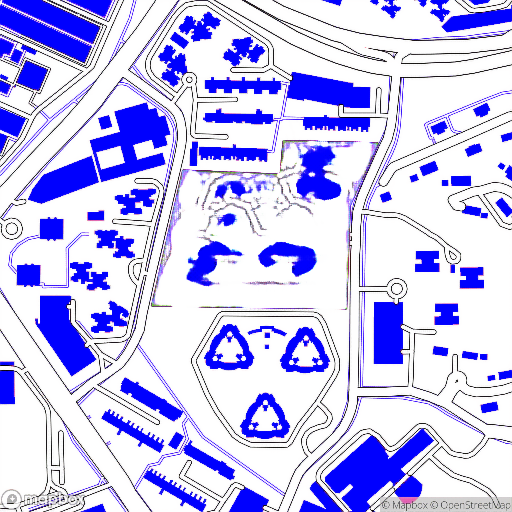
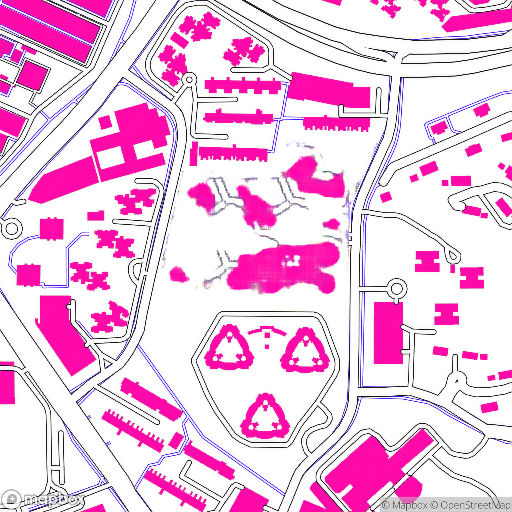
feat: raw on of site

diff --git a/Constraints/get_gen_images.py b/Constraints/get_gen_images.py
@@ -4,6 +4,7 @@ import cv2
 import tensorflow as tf
 import numpy as np
 import matplotlib.pyplot as plt
+from PIL import Image
 
 def rd_geojson_maker(geojson, gpr):
     rgb = ""
@@ -21,7 +22,8 @@ def rd_geojson_maker(geojson, gpr):
         "type": "Feature",
         "properties": {
             "fill": rgb,
-            "fill-opacity": "1.0"
+            "fill-opacity": "1.0",
+            "stroke-width" : 0,
         },
         "geometry": {
             "type": "Polygon",
@@ -37,7 +39,24 @@ def buildings_geojson_maker(geojson):
         "type": "Feature",
         "properties": {
             "fill": "#00FF00",
-            "fill-opacity": "1.0"
+            "fill-opacity": "1.0",
+            "stroke-width" : 0,
+        },
+        "geometry": {
+            "type": "Polygon",
+            "coordinates": [geojson]
+        }
+    }
+    geojson_str = json.dumps(geojson_feature)
+    encoded_geojson = requests.utils.quote(geojson_str)
+    return encoded_geojson
+
+def og_geojson_maker(geojson):
+    geojson_feature = {
+        "type": "Feature",
+        "properties": {
+            "fill": "#E6E4E0",
+            "fill-opacity": "1.0", 
         },
         "geometry": {
             "type": "Polygon",
@@ -51,6 +70,7 @@ def buildings_geojson_maker(geojson):
 def get_mapbox_image(geojson,center_coordinates, gpr):
     encoded_geojson_rd = rd_geojson_maker(geojson, gpr)
     encoded_geojson_buildings = buildings_geojson_maker(geojson) # mask is always green
+    encoded_geojson_og = og_geojson_maker(geojson)
     # call mapbox api
     access_token = 'sk.eyJ1IjoieWVuY2hpbmdwIiwiYSI6ImNsb3FrZ2U1czBqZjkycWx3cXVlbDRzOXkifQ.hTjiIfuNE7I-KhYqJfQkFw'  # Replace with your Mapbox access token
     lon, lat = center_coordinates  # Replace with the center longitude and latitude of your GeoJSON
@@ -59,7 +79,7 @@ def get_mapbox_image(geojson,center_coordinates, gpr):
     style_id = 'clogyeist005901nzfv9veyfa'
     mask_rd_url = f"https://api.mapbox.com/styles/v1/zyjy118/{style_id}/static/geojson({encoded_geojson_rd})/{lon},{lat},{zoom}/{width}x{height}@2x?access_token={access_token}"
     mask_buildings_url =  f"https://api.mapbox.com/styles/v1/zyjy118/{style_id}/static/geojson({encoded_geojson_buildings})/{lon},{lat},{zoom}/{width}x{height}@2x?access_token={access_token}"
-    ogurl = f"https://api.mapbox.com/styles/v1/mapbox/streets-v11/static/{lon},{lat},{zoom}/{width}x{height}@2x?access_token={access_token}"
+    ogurl = f"https://api.mapbox.com/styles/v1/mapbox/streets-v11/static/geojson({encoded_geojson_og})/{lon},{lat},{zoom}/{width}x{height}@2x?access_token={access_token}"
     response1 = requests.get(ogurl)
     response2 = requests.get(mask_rd_url)
     response3 = requests.get(mask_buildings_url)
@@ -140,14 +160,82 @@ def get_gen_image(rd_input_image, buildings_input_image):
     plt.imsave("gen_b3.png", gen_b3.numpy())
     return
 
+def rgb_colour(gpr):
+    building_rgb = []
+    rd_rgb = []
+    if gpr >= 1.4 and gpr < 1.6:
+        building_rgb = [255, 10, 169]
+        rd_rgb = [0,255,0]
+    elif gpr >= 1.6 and gpr < 2.1:
+        building_rgb = [200,130,60]
+        rd_rgb = [200,130,60]
+    elif gpr >= 2.1 and gpr < 2.8:
+        building_rgb = [0,0,255]
+        rd_rgb = [0,0,0]
+    elif gpr >= 2.8 and gpr < 3.0:
+        building_rgb = [255,0,0]
+        rd_rgb = [255,0,0]
+    elif gpr >= 3.0:
+        building_rgb = [0,0,0]
+        rd_rgb = [0,0,255]
+    return rd_rgb, building_rgb
+
+def apply_to_og_site():
+    return
+
+def create_binary_mask(arr, target_color, threshold=30):
+    lower_bound = np.array(target_color) - threshold
+    upper_bound = np.array(target_color) + threshold
+    mask = (arr[:, :, :3] >= lower_bound) & (arr[:, :, :3] <= upper_bound)
+    return np.all(mask, axis=-1)
+
+def extract_building_regions(arr, target_color, threshold=10):
+    lower_bound = np.array(target_color) - threshold
+    upper_bound = np.array(target_color) + threshold
+    mask = (arr[:, :, :3] >= lower_bound) & (arr[:, :, :3] <= upper_bound)
+    return np.all(mask, axis=-1)
+
+def extract_raw_buildings(gpr):
+    rd_rgb ,  building_rgb = rgb_colour(gpr)
+    og_path = "site.png"
+    mask_path = "site_masked_buildings.png"
+    gen_rd1_path = 'gen_rd1.png'
+
+    og_image = Image.open(og_path).convert('RGB')
+    masked_image = Image.open(mask_path).convert('RGB')
+    gen_rd1 = Image.open(gen_rd1_path).convert('RGB')
+
+    og_image = og_image.resize((512, 512))
+    masked_image = masked_image.resize((512, 512))
+
+    og_array = np.array(og_image)
+    masked_image_array = np.array(masked_image)
+    gen_rd1_array = np.array(gen_rd1)
+    
+    site_mask = create_binary_mask(masked_image_array, rd_rgb)
+    Image.fromarray((site_mask * 255).astype(np.uint8)).save("debug_site_mask.png")
+    gen_rd1_array[~site_mask] = [255,255,255]
+    rd1_building_mask = extract_building_regions(gen_rd1_array, [255,10,169])
+    Image.fromarray((rd1_building_mask * 255).astype(np.uint8)).save("debug_building_mask.png")
+
+    colored_paper = np.full((og_array.shape[0], og_array.shape[1], 3), [230, 228, 224], dtype=np.uint8)
+    colored_paper[rd1_building_mask] = [220,217,214]
+    Image.fromarray(colored_paper).save("debug_colored_paper.png")
+    og_array[site_mask] = colored_paper[site_mask]
+
+    raw_gen_r1 = Image.fromarray(og_array)
+    raw_gen_r1.save("raw_r1.png")
+    return
+
 
 def main(geojson, center_coordinates, gpr):
     get_mapbox_image(geojson, center_coordinates, gpr)
     prep_buildings_model_input(gpr, "site_masked_buildings.png", "buildings_input.png")
     get_gen_image("rd_input.png", "buildings_input.png")
+    extract_raw_buildings(gpr)
     return
 
 center_coordinates = (103.78378301045407, 1.30560345)
 geojson = [[103.784756, 1.3050353], [103.7847946, 1.3061424], [103.7850962, 1.3068138], [103.7840787, 1.3068373], [103.7840465, 1.3064766], [103.7830011, 1.3065207], [103.7826663, 1.3050645], [103.784756, 1.3050353]]
-tar_gpr = 2.1
+tar_gpr = 1.4
 main(geojson, center_coordinates, tar_gpr)
